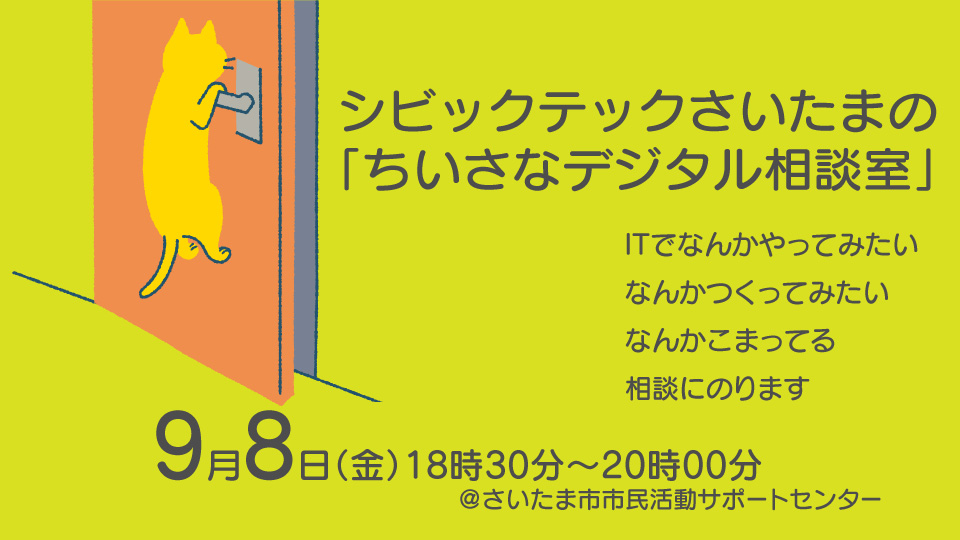
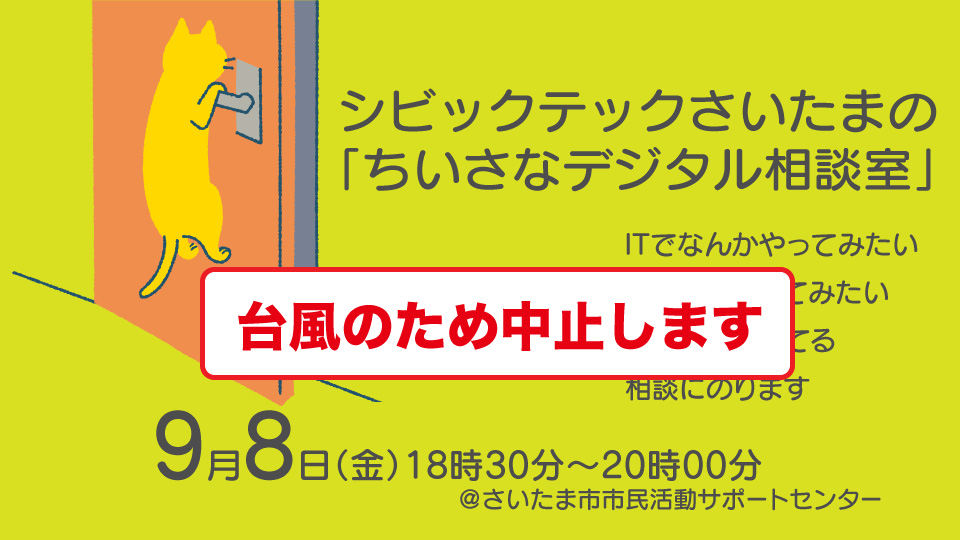
イベント中止のお知らせ

Changed region(s): [[0.1875, 0.4741, 0.8438, 0.7111]]

diff --git a/content/data/20230908-small-digital-consult.md b/content/data/20230908-small-digital-consult.md
@@ -1,5 +1,5 @@
 ---
-title: 9月のシビックテックさいたまの「ちいさなデジタル相談室」は9/8開催です。
+title: 【台風のため中止します】9月のシビックテックさいたまの「ちいさなデジタル相談室」は9/8開催です。
 date: 2023-08-29
 eventDate: 2023-09-08
 link: https://www.facebook.com/events/1434873177084240
